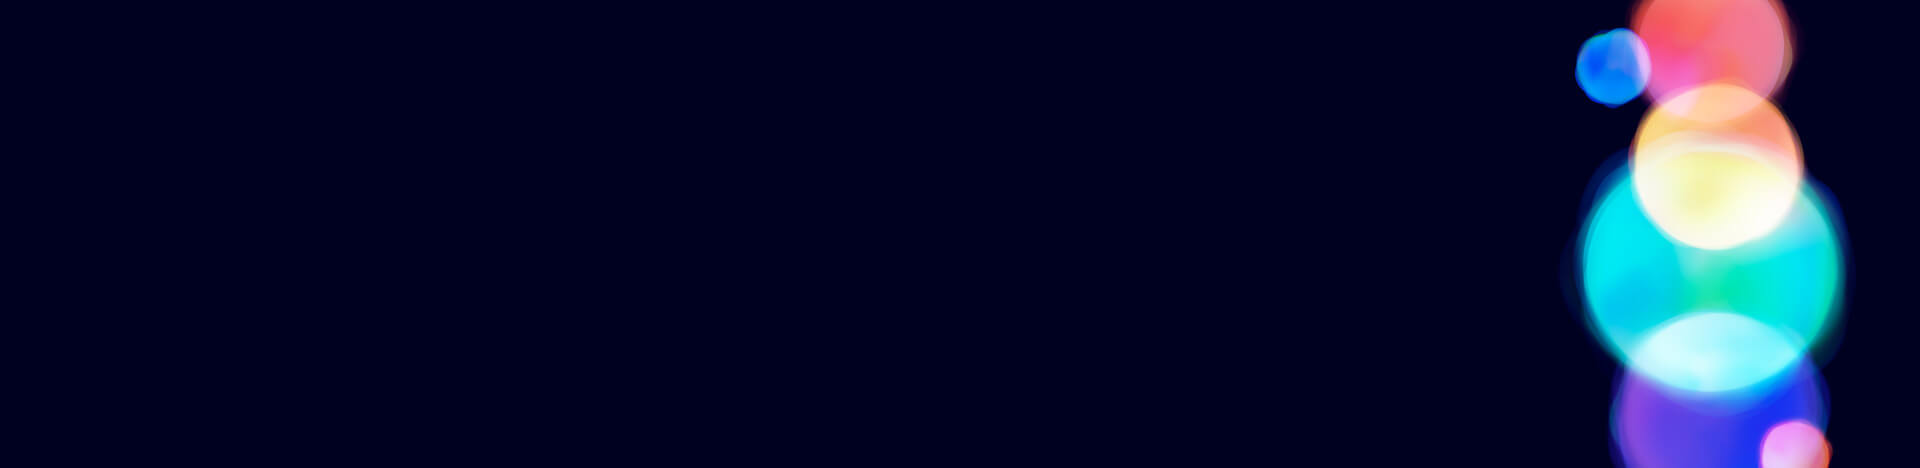
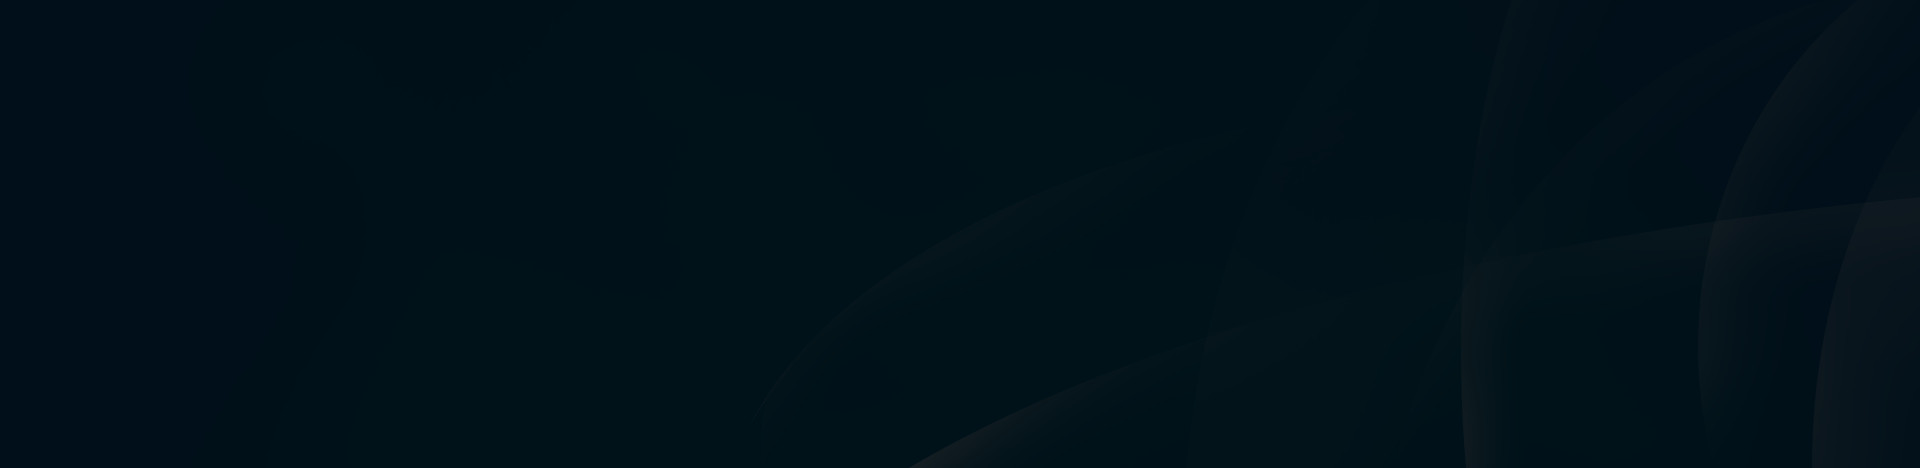
Agency footer

Changed region(s): [[0.8125, 0.0, 0.9688, 1.0], [0.4688, 0.9573, 0.5, 1.0], [0.5, 0.9274, 0.5312, 0.9573]]

diff --git a/code/views/template/designs/businesses/agency/main.html b/code/views/template/designs/businesses/agency/main.html
@@ -99,8 +99,7 @@
     	}
 
     	.footer {
-    		background: #000120 url("assets/images/content/agency-bg-bottom-inside.jpg") center 33% no-repeat;
-    		background-size: cover;
+    		background: rgb(0, 15, 25) url("assets/images/content/agency-bg-bottom-inside.jpg") center center no-repeat;
     		color: #fff;
     		font-size: 1em;
     		font-weight: bold;
@@ -110,7 +109,7 @@
     	}
 
     	.footer .navigation {
-    		background: rgba(0, 0, 16, 0.5);
+    		background: rgba(0, 7, 12, 0.5);
     		padding: 0 48px;
     	}
 
@@ -154,7 +153,7 @@
     	}
 
     	.footer .copyright {
-    		background: rgba(0, 0, 16, 0.5);
+    		background: rgba(0, 7, 12, 0.5);
     		font-size: 1em;
     		font-weight: normal;
     	}
